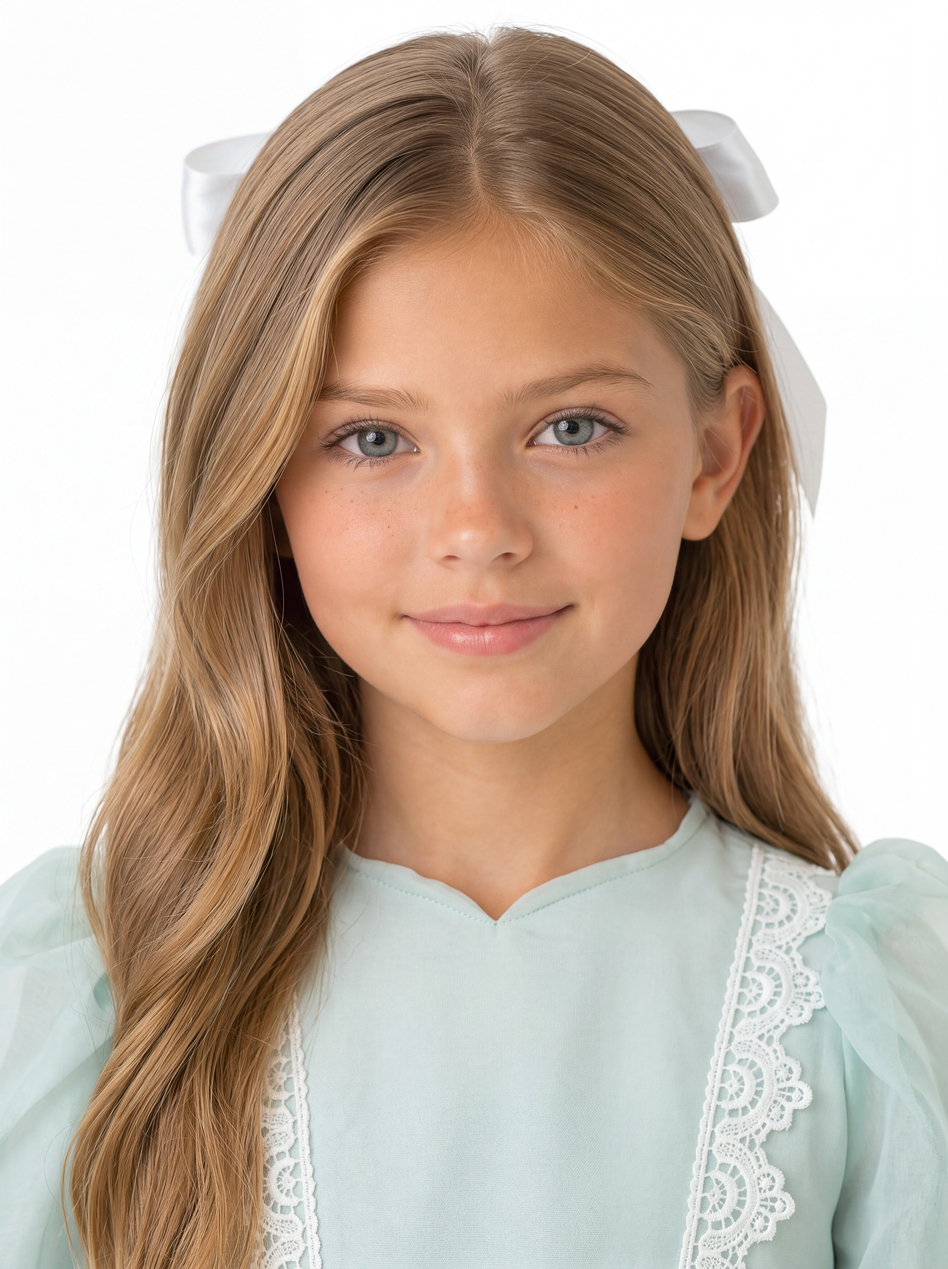
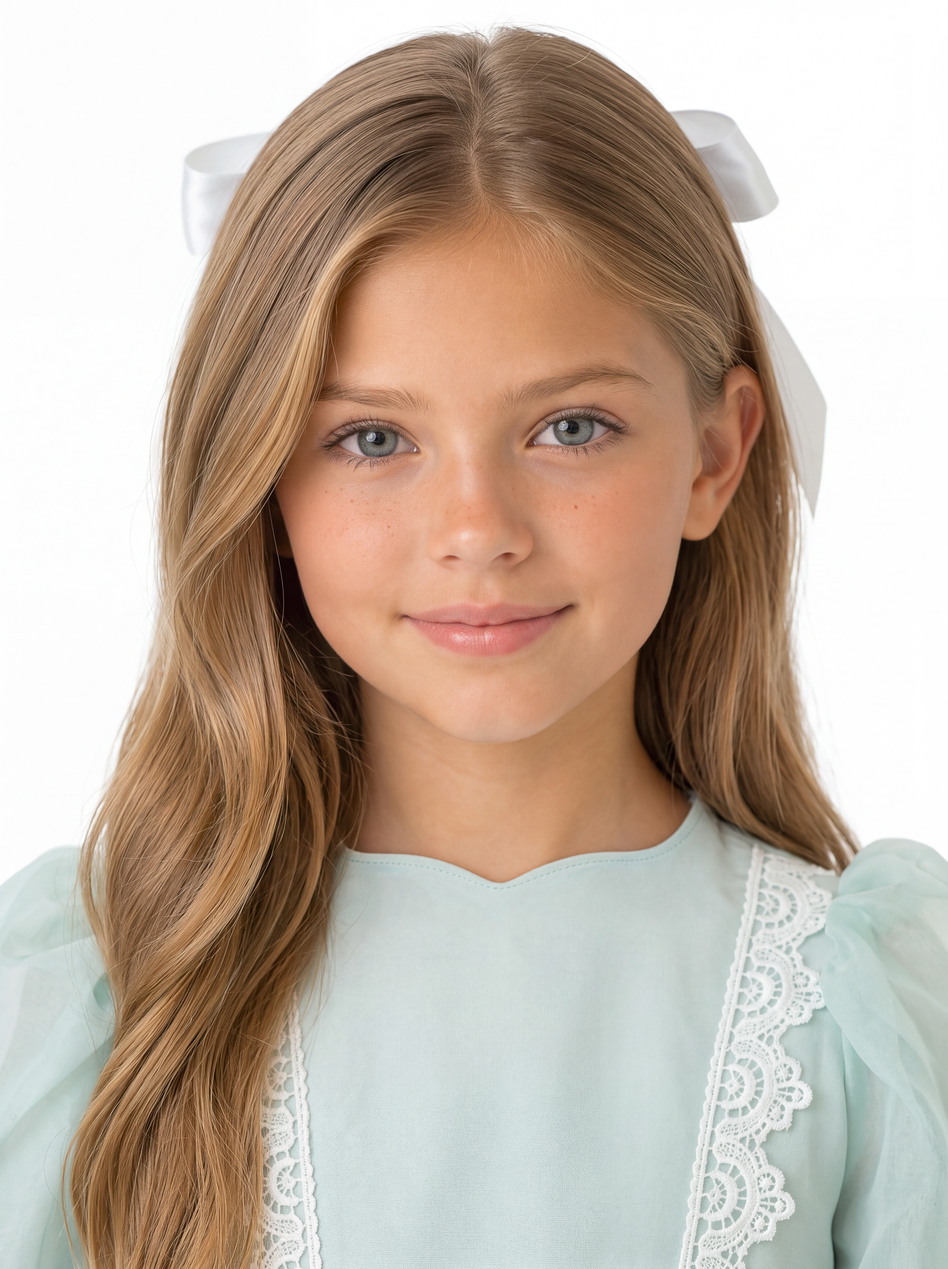
אישור תקריבים (דגם 15, צוואר מתוקן, דגמים ישנים); הנחיות לתיקון צוואר בגוף מלא
Claude-Session: https://claude.ai/code/session_013bHfeojD3ywY6KMPCookv2

Changed region(s): [[0.3438, 0.651, 0.6562, 0.744], [0.7188, 0.62, 0.75, 0.651]]

diff --git a/tools/AGENT_BRIEF_NECKFIX_FULL.md b/tools/AGENT_BRIEF_NECKFIX_FULL.md
@@ -1,0 +1,15 @@
+# תיקון פתח צוואר בתמונות גוף מלא (23.11) — תוספת ל־AGENT_BRIEF_NECKFIX2.md
+
+קרא קודם את `/home/user/SHOSHI-GELIS/tools/AGENT_BRIEF_NECKFIX2.md` ופעל לפיו (אותו כלי: `images_retouch`, `mode: replace`, `editType: precise`, `model: retouch-precise-gpt-2-6`, מסכה לבנה רק על קצה הצוואר). כאן מה ששונה.
+
+- התמונה היא **גוף מלא** (בדרך כלל 3392×5056), ולכן אזור הצוואר קטן: המסכה היא מלבן קטן סביב קצה הצוואר של השמלה בלבד (מכתף לכתף, מעט עור מעל, עד כ־2% מגובה התמונה מתחת לשקע). לא נוגעת בסנטר, בפנים או בשיער שמעל הכתפיים.
+- **המטרה:** שפתח הצוואר בגוף המלא ייראה כמו בתקריב המאושר והמתוקן של אותו שוט: `/home/user/SHOSHI-GELIS/catalog-refs/<שוט>-closeup.jpg` (לדגמים הישנים: `/home/user/SHOSHI-GELIS/catalog-refs/earlier/<שוט>-closeup-hq.jpg`). לפתוח אותו ולראות לפני העבודה. לב עדין: שתי קשתות רכות ושקע אחד קטן, רדוד ומעוגל; לא V.
+- לפני שמתקנים: להגדיל את אזור הצוואר בגוף המלא. **אם הוא כבר לב עדין ותואם לתקריב, לא לגעת** ולדווח "לא נדרש".
+- אם בתמונה יש **עגילים** (בתמונות הישנות יש עגילי פנינה): להסיר אותם ב־retouch נפרד, `mode: "erase"`, `model: "retouch-precise-gpt-2-6"`, עם מסכה קטנה על כל עגיל (אפשר שתי אוזניים באותה מסכה), על גבי תוצאת תיקון הצוואר. לבדוק שהתנוך נראה טבעי.
+- תמונה שלא קיימת בחשבון (דגמים ישנים): להעלות את הקובץ המקומי המלא כמו שהוא (JPEG, `creations_request_upload` mimeType image/jpeg → PUT → `creations_finalize_upload`), ולעבוד על המזהה החדש. המסכה בגודל הפיקסלים של הקובץ שהועלה.
+- בדיקה: חיתוך מוגדל של הצוואר לפני/אחרי מול התקריב; אין גבול נראה; מחוץ למסכה לא השתנה דבר; הפנים לא השתנו.
+
+## תוצרים
+- `/home/user/SHOSHI-GELIS/review/r3/fullfix/<שוט>-full.jpg`: התוצאה ברזולוציה מלאה, JPEG 92 (ליצור את התיקייה).
+- `/home/user/SHOSHI-GELIS/review/r3/fullfix/<שוט>-cmp.jpg`: `compare.py` עם `"BEFORE|<חיתוך פלג גוף עליון לפני>" "AFTER|<אותו חיתוך אחרי>" "FULL|<התמונה המלאה אחרי>"`.
+- דוח: טבלה עם שוט, מזהה התוצאה הסופית, מה נעשה (צוואר / עגילים / לא נדרש), לב עדין (כן / חלקית / לא), גבול נראה, פגמים שנשארו. בלי לייפות. אל תמחק ואל תדרוס קבצים, אל תעשה git commit/push.

diff --git a/review/approved.md b/review/approved.md
@@ -424,3 +424,4 @@
 - **תיקון צוואר ממוסך, קבוצה א' (23.11, ממתין לאישור):** כל 8 יצאו לב עדין בניסיון ראשון. m01-small `Td7b794VNR`; m06-big `tCZSZD1mZJ`; m06-d2 `SyvTvSfUb8`; m06-small `CqYyWk9EEy`; m07-big `gOh0vZfSXO`; m07-d2 `p8P14KOehw`; m07-small `p8P14L6ehw`; m05-big `xSoztdAjfW`. קבצים: `review/r3/neckfix2/<שוט>-nk.jpg`, `-cmp.jpg`, גיליונות `set-a1.jpg`, `set-a2.jpg`.
 - **תיקון צוואר ממוסך, קבוצה ב' (23.11, ממתין לאישור):** m09-big `Bh6LNJvoQR` (כתמיות קלה בסאטן באזור המתוקן); m09-small `lJmctvTgv9` (כתמיות קלה); m10-d1 `DoykOAJpcl`; m10-d2 `79CDqKrJAL`; m12-big `gOh0hwNSXO`; m12-d1 `ksd2dgK16B`; m12-small `SyvTvRKUb8`; m13-big `rgBGBR6xtc`. גיליונות `review/r3/neckfix2/set-b1.jpg`, `set-b2.jpg`.
 - **תיקון צוואר ממוסך, קבוצה ג' (23.11, ממתין לאישור):** m08-d1 `Bh6L67moQR`; m11-d1 `aFzJzA8fSh`; m14-d1 `gOh0hENSXO`; m14-d2 `cpUHUiK0eP`; m11-big `4RHBHJ09Aa`; m04-big `YMgQSVJWeC`; m04-small `yiQdFGvPW9`; m11-small `tCZS2xzmZJ`; m15-small `ovis3UJ829`; m15-d1 `p8P1AIfehw` (שני שלבים; בצד שמאל מדרגה בטול הכתף ליד פס הקטיפה). דגם 15 סט תקריבים: d1 `p8P1AIfehw`, d2 `fHnOkw7CDY`, big `ksd2ntQ16B`, small `ovis3UJ829`. גיליונות: `review/r3/neckfix2/set-m15.jpg`, `set-c1.jpg`, `set-c2.jpg`. סה"כ תוקנו 26 תקריבים בשיטה הממוסכת.
+- **אישור המשתמשת (23.11): "הכל מאושר, תמשיך לגוף מלא ותיצור מחדש את הקטנה".** אושרו: 4 תקריבי דגם 15; 16 התקריבים עם הצוואר המתוקן (הוחלפו ב־catalog-refs, הקודמים ב־`catalog-refs/superseded/`); 14 תקריבי הדגמים הישנים (`catalog-refs/earlier/*-closeup-hq.jpg`). לביצוע: גוף מלא לדגם 15; עדכון צוואר בגוף המלא של השוטים שתוקנו; תקריבים חדשים לילדה הקטנה בדגמים 3, 4 (פנים דומות יותר, גיל 3–4) ובדגמים 6, 7, 9 (תסרוקת חצי אסוף עם גלים במקום אסוף מפוזר), ואחריהם גוף מלא חדש ל־6, 7, 9.

diff --git a/catalog-refs/approved-closeups.md b/catalog-refs/approved-closeups.md
@@ -32,3 +32,54 @@
 | m07-d1 | 2 (סבב 2, חצי אסוף) | `YMgfjvzWeC` | `KLp7S9okqp` |
 | m09-d1 | 2 | `1lX3tVEr4r` | `Bh962YyoQR` |
 | m09-d2 | 1 | `N2bdrH46D9` | `iGbKjwV3uK` |
+
+## עדכון 23.11: פתח צוואר לב עדין (תיקון ממוסך) — המזהה הקובע לתקריב
+
+| שוט | תקריב מתוקן |
+|---|---|
+| m01-small | `Td7b794VNR` |
+| m06-big | `tCZSZD1mZJ` |
+| m06-d2 | `SyvTvSfUb8` |
+| m06-small | `CqYyWk9EEy` |
+| m07-big | `gOh0vZfSXO` |
+| m07-d2 | `p8P14KOehw` |
+| m07-small | `p8P14L6ehw` |
+| m05-big | `xSoztdAjfW` |
+| m09-big | `Bh6LNJvoQR` |
+| m09-small | `lJmctvTgv9` |
+| m10-d1 | `DoykOAJpcl` |
+| m10-d2 | `79CDqKrJAL` |
+| m12-big | `gOh0hwNSXO` |
+| m12-d1 | `ksd2dgK16B` |
+| m12-small | `SyvTvRKUb8` |
+| m13-big | `rgBGBR6xtc` |
+
+## דגם 15 (אושר 23.11)
+
+| שוט | תקריב | שמלה |
+|---|---|---|
+| m15-d1 | `p8P1AIfehw` | `4RHXKzo9Aa` |
+| m15-d2 | `fHnOkw7CDY` | `3zktjDEREY` |
+| m15-big | `ksd2ntQ16B` | `bxDiX9F5Y2` |
+| m15-small | `ovis3UJ829` | `4RHXKoq9Aa` |
+
+## דגמים ישנים (2, 3, 4, 8, 11, 14): תקריבים חדשים באיכות גבוהה (אושרו 23.11), קבצים ב־earlier/<שוט>-closeup-hq.jpg
+
+| שוט | תקריב |
+|---|---|
+| m03-d1 | `6A58uGSiJO` |
+| m08-d1 | `Bh6L67moQR` |
+| m11-d1 | `aFzJzA8fSh` |
+| m14-d1 | `gOh0hENSXO` |
+| m02-d2-turquoise | `huAU6w5vqL` |
+| m03-d2 | `Syv0oX3Ub8` |
+| m08-d2 | `s7tYdXbl8e` |
+| m14-d2 | `cpUHUiK0eP` |
+| m02-big-mocha | `1lX2VyBr4r` |
+| m03-big | `MBO5gubDCm` |
+| m04-big | `YMgQSVJWeC` |
+| m08-big | `6A58uhYiJO` |
+| m11-big | `4RHBHJ09Aa` |
+| m11-small | `tCZS2xzmZJ` |
+
+בעבודה: תקריבים חדשים לילדה הקטנה בדגמים 3, 4 (פנים) ו־6, 7, 9 (תסרוקת).
